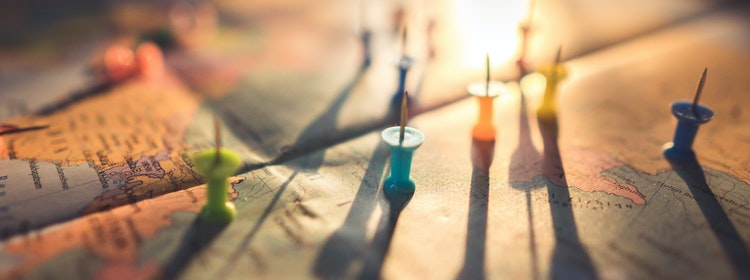
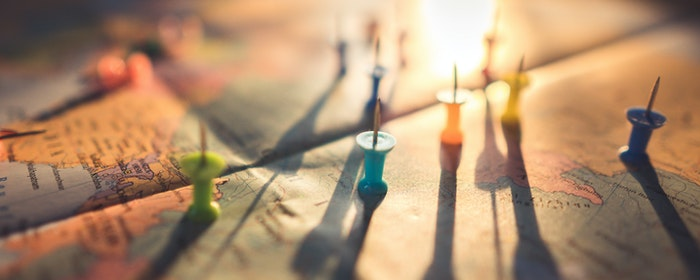
Atualização 22.03.2022 20:46
Tela Congregações (Imagens responsivas)

diff --git a/congregacoes.html b/congregacoes.html
@@ -30,14 +30,26 @@
         <section>
             <h2>Localize nossas congregações</h2>
             <h3 class="nomecongregaçao">Congregação - Sede</h3>
-            <div class="bannercongregaçao"><img src="imagens/bannercongregaçao01.jpg" alt="Mapa Congregaçoes"></div>
+            <div class="bannercongregaçao">
+                <picture>
+                    <source media="(max-width: 400px)" srcset="imagens/bannercongregaçao-pp.jpg">
+                    <source media="(max-width: 520px)" srcset="imagens/bannercongregaçao-pequeno.jpg">
+                    <source media="(max-width: 780px)" srcset="imagens/bannercongregaçao-medio.jpg">
+                    <img src="imagens/bannercongregaçao01.jpg" alt="Mapa Congregaçoes">
+                </picture>
+            </div>
             <p class="textocongregaçao"><strong>Localização</strong>: Rua Breno Viana de Sousa, N 032, Ibaretama|CE <br><strong>Pastor</strong>: Joel Pereira <br><strong>Programação</strong>: <a href="#">Clique aqui</a> <br><strong>Como Chegar</strong>: <a href="#">Clique aqui</a></p>
-
-            <h3 class="nomecongregaçao">Congregação - Sede</h3>
-            <div class="bannercongregaçao"><img src="imagens/bannercongregaçao01.jpg" alt="Mapa Congregaçoes"></div>
-            <p class="textocongregaçao"><strong>Localização</strong>: Rua Breno Viana de Sousa, N 032, Ibaretama|CE <br><strong>Pastor</strong>: Joel Pereira <br><strong>Programação</strong>: <a href="#">Clique aqui</a> <br><strong>Como Chegar</strong>: <a href="#">Clique aqui</a></p>
-
             
+            <h3 class="nomecongregaçao">Congregação - Piranji</h3>
+            <div class="bannercongregaçao">
+                <picture>
+                    <source media="(max-width: 400px)" srcset="imagens/bannercongregaçao02-pp.jpg">
+                    <source media="(max-width: 520px)" srcset="imagens/bannercongregaçao02-pequeno.jpg">
+                    <source media="(max-width: 780px)" srcset="imagens/bannercongregaçao02-medio.jpg">
+                    <img src="imagens/bannercongregaçao02.jpg" alt="Mapa Congregaçoes">
+                </picture>
+            </div>
+            <p class="textocongregaçao"><strong>Localização</strong>: Rua Breno Viana de Sousa, N 032, Ibaretama|CE <br><strong>Pastor</strong>: Joel Pereira <br><strong>Programação</strong>: <a href="#">Clique aqui</a> <br><strong>Como Chegar</strong>: <a href="#">Clique aqui</a></p>
         </section>
     </main>
     <footer>

diff --git a/style.css b/style.css
@@ -401,9 +401,11 @@ footer > p a:hover{
 .nomecongregaçao{
     margin: auto;
     text-align: center;
+    padding-top: 15px;
 }
 .textocongregaçao{
     font-family: var(--font02);
     font-size: 1.1em;
-    margin-left: 74px;
+    text-align: center;
+    padding-bottom: 20px;
 }
